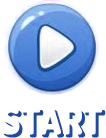
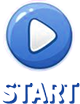
comp

diff --git a/public/components/connecting-screen.html b/public/components/connecting-screen.html
@@ -11,20 +11,21 @@
 .intro{
     background-image: url("../css/img/intro_bg.png");
     background-repeat: no-repeat;
-    width: 379px;
-    height: 350px;
+    width: 280px;
+    height: 259px;
 }
 
 .start{
     background-image: url("../css/img/start_btn.png");
     background-repeat: no-repeat;
-    width: 106px;
-    height: 138px;
+    width: 80px;
+    height: 104px;
+    cursor: pointer;
 }</style>
-    <div class="intro_content">
-        <div class="intro"><p>Hello</p></div>
-        <div class="start"></div>
-    </div>
+        <div class="intro_content">
+            <div class="intro"><p>Hello</p></div>
+            <div class="start"></div>
+        </div>
     </template>
     <script>/* jshint newcap: false */
 
@@ -37,7 +38,7 @@ Polymer({
         selfConnecting = this;
     },
     onPlayersReady: function(){
-        document.querySelector('.start').addEventListener('click', function(e) {
+        this.shadowRoot.querySelector('start').addEventListener('click', function(e) {
             console.log('Start button');
         });
     }

diff --git a/_components/connecting-screen/connecting-screen.html b/_components/connecting-screen/connecting-screen.html
@@ -4,11 +4,11 @@
         <!-- smoosh -->
         <link href="screen.css" />
         <!-- endsmoosh -->
+        <div class="intro_content">
+            <div class="intro"><p>Hello</p></div>
+            <div class="start"></div>
+        </div>
     </template>
-    <div class="intro_content">
-        <div class="intro"><p>Hello</p></div>
-        <div class="start"></div>
-    </div>
     <!-- smoosh -->
     <script src="app.js"></script>
     <!-- endsmoosh -->

diff --git a/_components/connecting-screen/screen.css b/_components/connecting-screen/screen.css
@@ -8,13 +8,14 @@
 .intro{
     background-image: url("../css/img/intro_bg.png");
     background-repeat: no-repeat;
-    width: 379px;
-    height: 350px;
+    width: 280px;
+    height: 259px;
 }
 
 .start{
     background-image: url("../css/img/start_btn.png");
     background-repeat: no-repeat;
-    width: 106px;
-    height: 138px;
+    width: 80px;
+    height: 104px;
+    cursor: pointer;
 }

diff --git a/_components/connecting-screen/app.js b/_components/connecting-screen/app.js
@@ -9,7 +9,7 @@ Polymer({
         selfConnecting = this;
     },
     onPlayersReady: function(){
-        document.querySelector('.start').addEventListener('click', function(e) {
+        this.shadowRoot.querySelector('start').addEventListener('click', function(e) {
             console.log('Start button');
         });
     }
